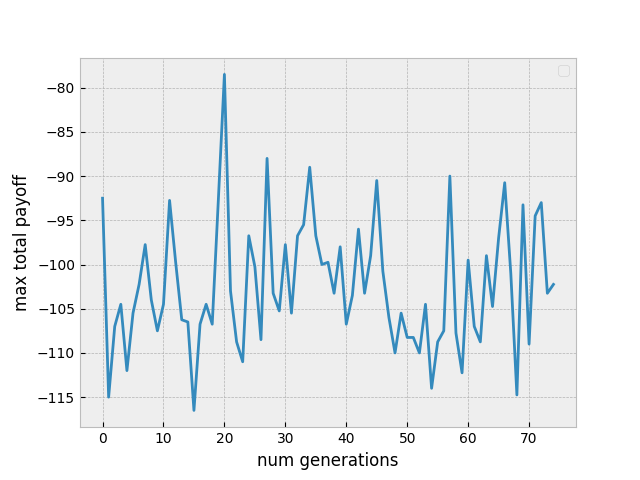
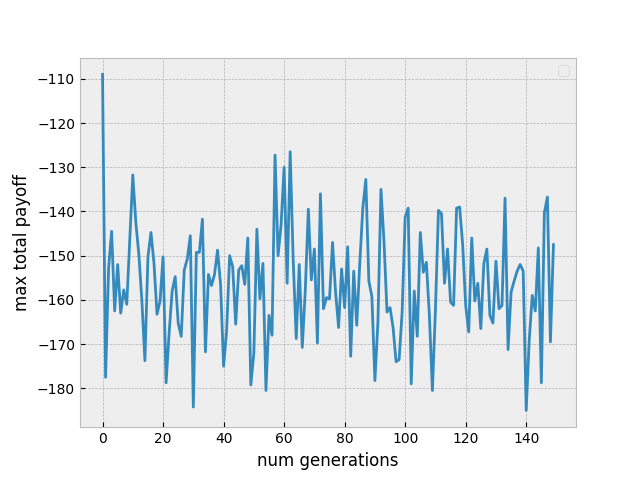
fogel draft 2

diff --git a/tic_tac_toe/fogel.py b/tic_tac_toe/fogel.py
@@ -114,24 +114,31 @@ def make_new_gen_v2(parents):
 
     for parent in parents:
         child_weights = {}
+        child_hidden_layer_size = parent.hidden_layer_size
+        child_num_nodes = len(parent.nodes)
 
         if random.randint(0, 1) == 0:
             add_subtract = random.choice(["Add", "Delete"])
 
             if add_subtract == "Add" and child_hidden_layer_size < 10:
-                child_weight_ids = get_weight_ids([10, parent.hidden_layer_size + 1 + 1, 9], [10, 10 + parent.hidden_layer_size + 1 + 1])
-                parent_weight_ids = list(parent.node_weights.keys())
+                child_hidden_layer_size += 1
+                child_num_nodes += 1
 
-                for weight in child_weight_ids:
-                    if weight in parent_weight_ids:
-                        child_weights[weight] = parent.node_weights[weight] + np.random.normal(0, 0.05)
+
+            if add_subtract == "Subtract" and child_hidden_layer_size > 1:
+                child_hidden_layer_size -= 1
+                selected_node = random.choice([parent.nodes[n] for n in range(11, 11 + parent.hidden_layer_size + 1)])
+                parent.nodes.remove(parent.nodes[selected_node - 1])
+                child_num_nodes -= 1
+
+        child_weight_ids = get_weight_ids([10, child_hidden_layer_size + 1, 9], [10, 10 + child_hidden_layer_size + 1])
+
+        for weight in child_weight_ids:
+            if weight in list(parent.node_weights.keys()):
+                child_weights[weight] = parent.node_weights[weight] + np.random.normal(0, 0.05)
 
             else:
                 child_weights[weight] = 0
-
-            if add_subtract == "Subtract" and child_hidden_layer_size > 1:
-                selected_node = random.choice([parent.nodes[n] for n in range(11, 11 + parent.hidden_layer_size + 1)])
-                parent.nodes.remove(parent.nodes[selected_node - 1])
 
 
         child = EvolvedNeuralNet(child_num_nodes, child_weights, [10, 10 + child_hidden_layer_size + 1], child_hidden_layer_size)
@@ -284,6 +291,23 @@ def find_max_total_payoff_from_first_evaluation_data(first_evaluation_data):
     return first_evaluation_data[max_total_payoff_net]
 
 
+def select_parents_v2(payoff_data):
+    max_payoff_value = -999999999999999999999999
+
+    for neural_net in list(payoff_data.keys()):
+        if payoff_data[neural_net] > max_payoff_value:
+            max_payoff_value = payoff_data[neural_net]
+
+    parents = []
+
+    for neural_net in list(payoff_data.keys()):
+        if payoff_data[neural_net] == max_payoff_value:
+            parents.append(neural_net)
+
+    return parents
+
+
+
 def run(num_first_gen, num_gen):
     max_payoff_values = {}
 
@@ -291,13 +315,14 @@ def run(num_first_gen, num_gen):
     first_gen = make_first_gen(num_first_gen)
     first_evaluation_data = first_evaluation(first_gen)
     #print("First evaluation for Gen 0 Done")
-    second_evaluation_data = second_evaluation(first_evaluation_data)
+    #testing second_evaluation_data = second_evaluation(first_evaluation_data)
     #print("Second evaluation for Gen 0 Done")
-    next_gen_parents = select_parents(second_evaluation_data)
+    #testing next_gen_parents = select_parents(second_evaluation_data)
+    next_gen_parents = select_parents_v2(first_evaluation_data)
     #print("Parents from Gen 0 have been selected")
     max_payoff_values[0] = find_max_total_payoff_from_first_evaluation_data(first_evaluation_data)
     #print("Got Max Total Payoff Value for Gen 0")
-    current_gen = make_new_gen(next_gen_parents)
+    current_gen = make_new_gen_v2(next_gen_parents)
     print(f"Gen 0 took {time.time() - start_time} seconds to complete")
 
 
@@ -305,27 +330,31 @@ def run(num_first_gen, num_gen):
         start_time = time.time()
         first_evaluation_data = first_evaluation(current_gen)
         #print(f"First evaluation for Gen {n} Done")
-        second_evaluation_data = second_evaluation(first_evaluation_data)
+        #testing second_evaluation_data = second_evaluation(first_evaluation_data)
         #print(f"Second evaluation for Gen {n} Done")
-        next_gen_parents = select_parents(second_evaluation_data)
+        #testing next_gen_parents = select_parents(second_evaluation_data)
+        next_gen_parents = select_parents_v2(first_evaluation_data)
         #print(f"Parents from Gen {n} have been selected")
         max_payoff_values[n] = find_max_total_payoff_from_first_evaluation_data(first_evaluation_data)
         #print(f"Got Max Total Payoff Value for Gen {n}")
-        current_gen = make_new_gen(next_gen_parents)
+        current_gen = make_new_gen_v2(next_gen_parents)
         print(f"Gen {n} took {time.time() - start_time} seconds to complete")
 
     return max_payoff_values
 
 
 total_values = {}
+first_gen_size = 50
+num_generations = 150
+num_trials = 4
 
-for n in range(0, 75):
+for n in range(0, num_generations):
     total_values[n] = 0
 
 
-for n in range(0, 4):
+for n in range(0, num_trials):
     start_time = time.time()
-    max_payoff_values = run(30, 75)
+    max_payoff_values = run(first_gen_size, num_generations)
 
     for layer in max_payoff_values:
         total_values[layer] += max_payoff_values[layer]
@@ -334,7 +363,7 @@ for n in range(0, 4):
 
 
 x_values = [key for key in list(total_values.keys())]
-y_values = [value / 4 for value in list(total_values.values())]
+y_values = [value / num_trials for value in list(total_values.values())]
 
 plt.style.use('bmh')
 plt.plot(x_values, y_values)

diff --git a/tic_tac_toe/players/nn_player.py b/tic_tac_toe/players/nn_player.py
@@ -66,7 +66,9 @@ class NNPlayer():
     def choose_move(self, game_board):
         converted_board = self.convert_to_negatives(game_board)
         flattened_board = self.flatten(converted_board)
+        assert len([n for n in flattened_board if n not in [-1, 0, 1]]) == 0, "Neural Net converted board to array incorrectly"
         results = self.neural_net.build_neural_net(flattened_board)
+        assert sum(flattened_board) == 0, "Flattened board is incorrect"
         taken_spots = [n for n in range(len(flattened_board)) if flattened_board[n] != 0]
 
         max_index = 0
